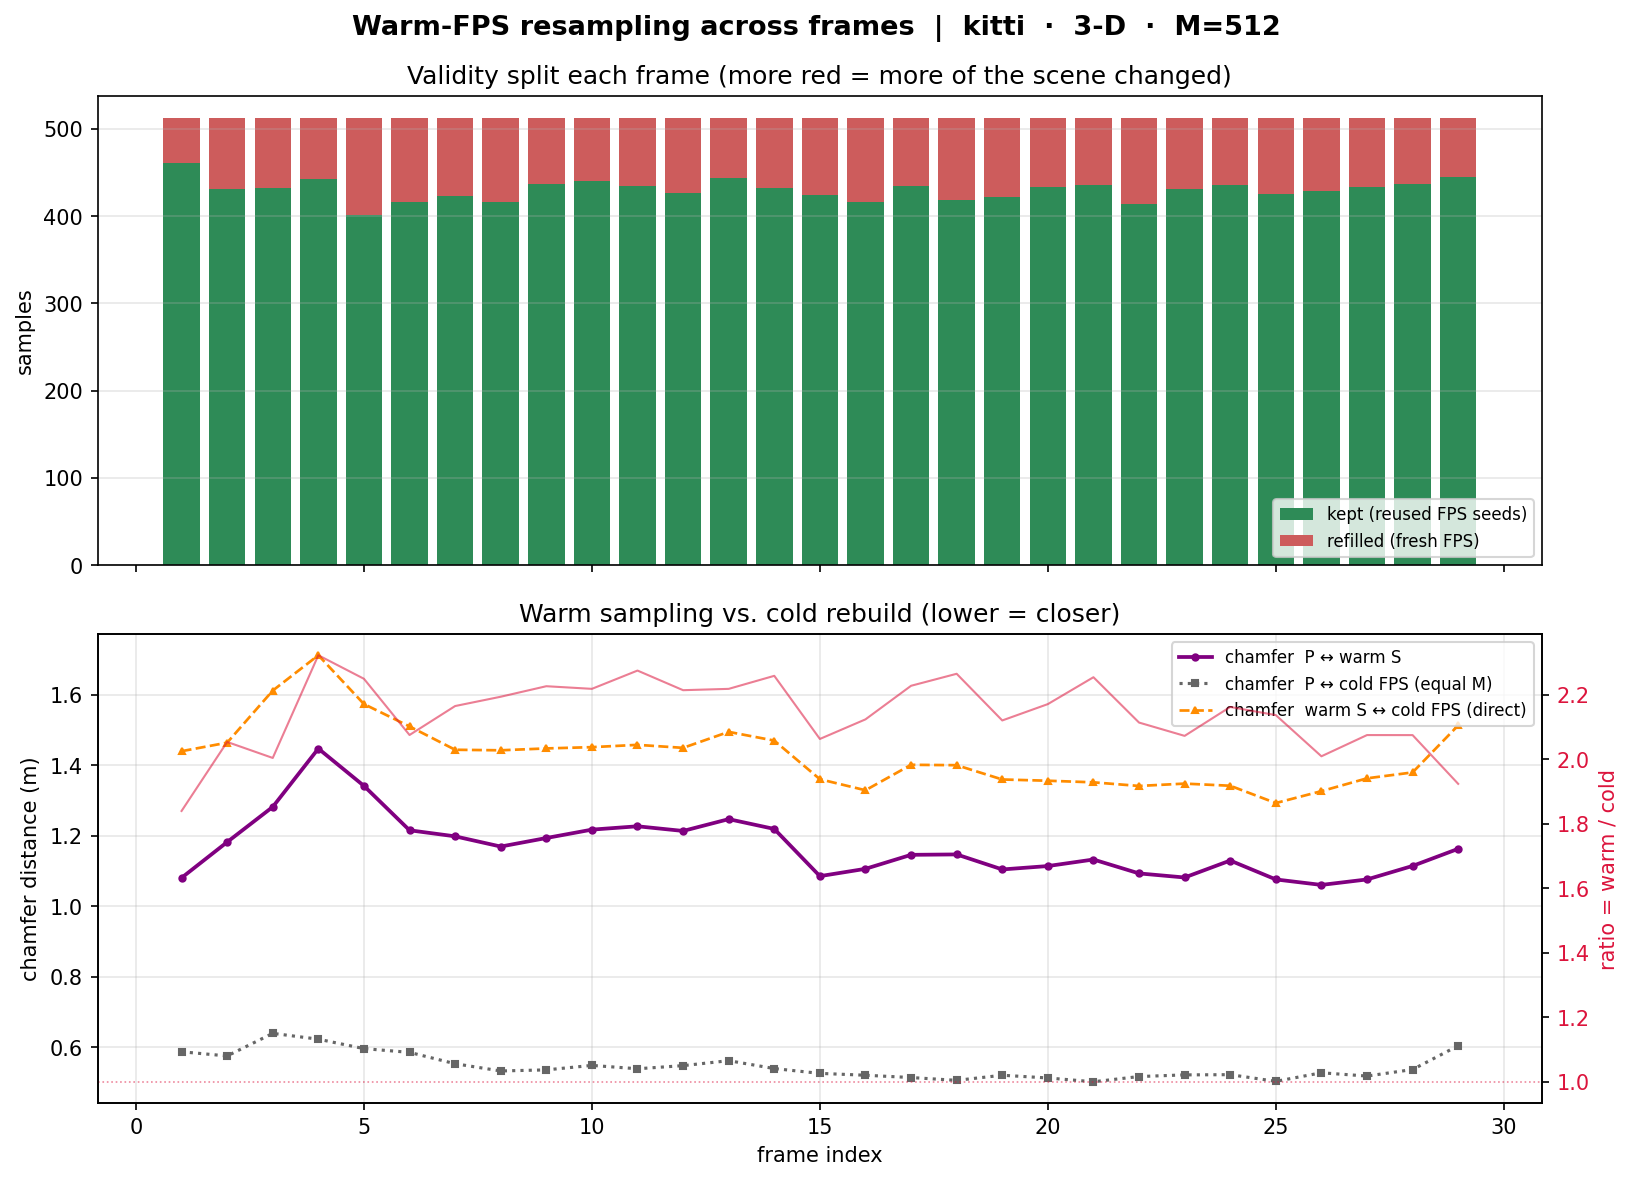
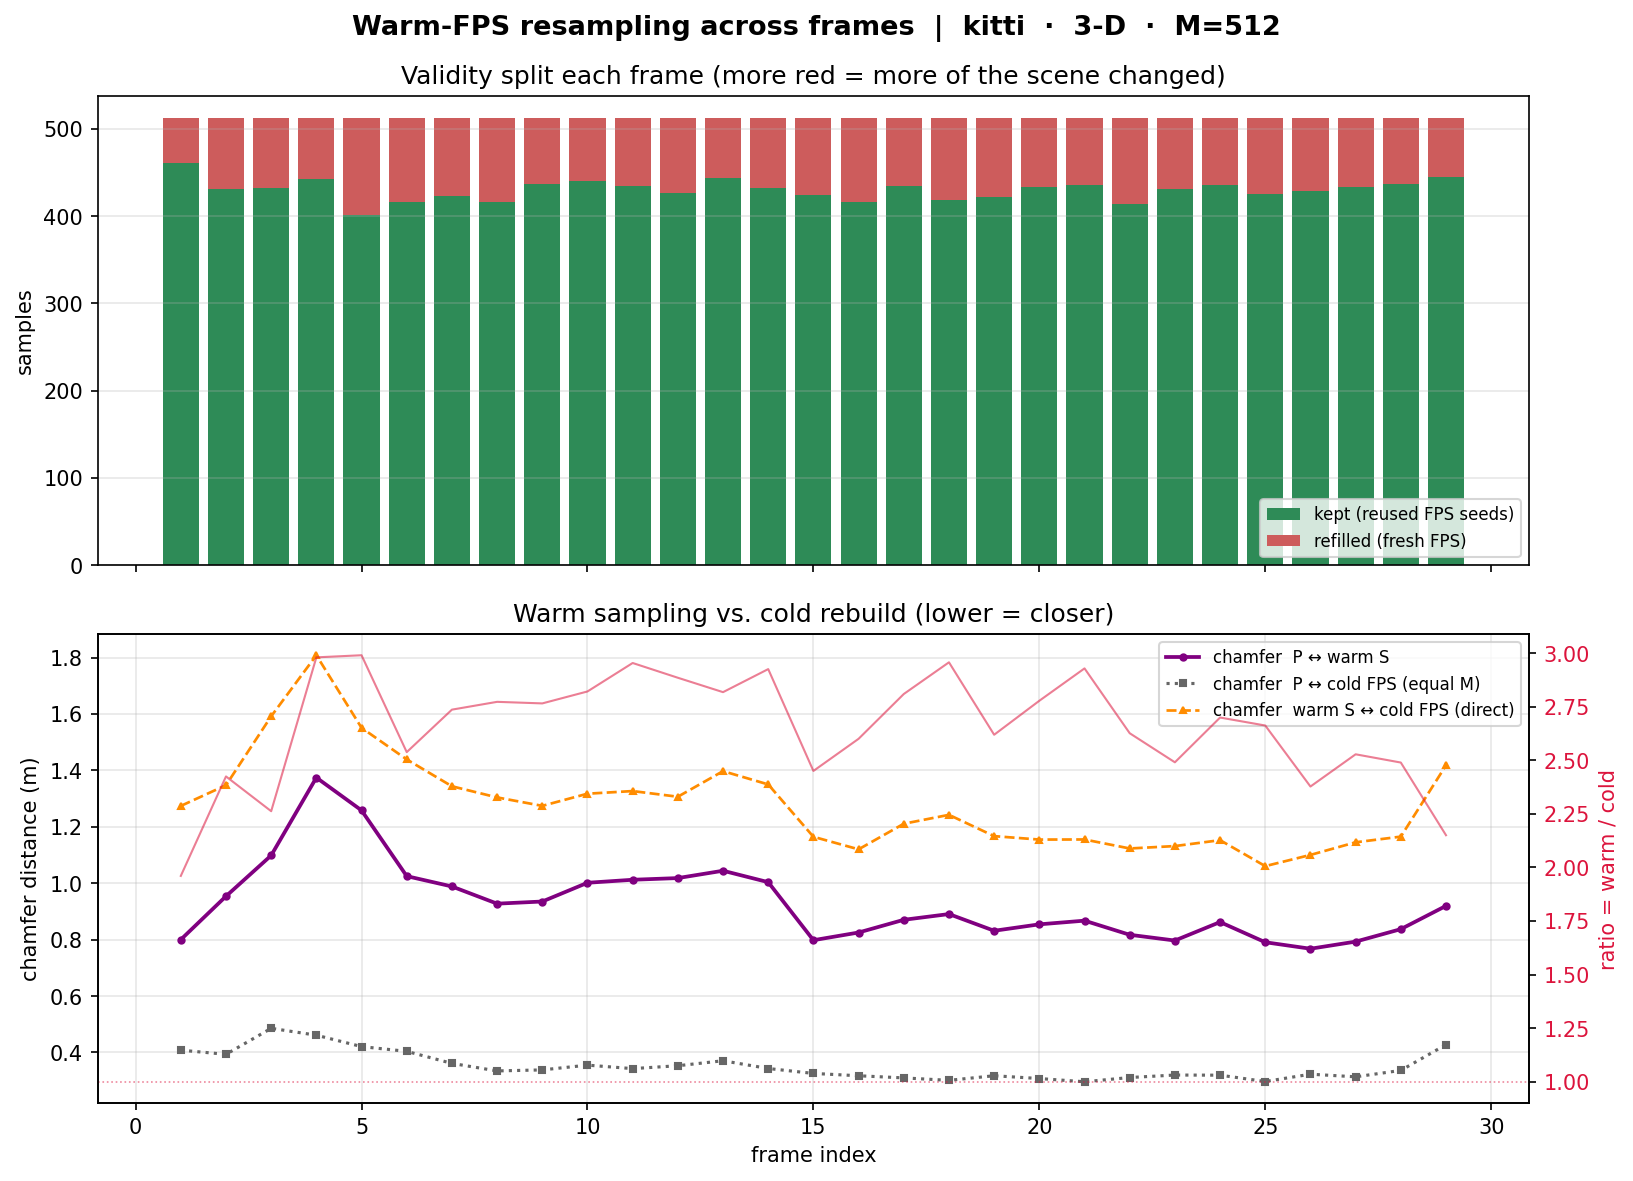
feat: enhance chamfer distance calculation with PyTorch3D support and fallback, update README and requirements

diff --git a/data_io.py b/data_io.py
@@ -2,6 +2,7 @@ from __future__ import annotations
 
 import glob
 import os
+import warnings
 
 import numpy as np
 import torch
@@ -72,7 +73,7 @@ def load_lidar_bin(
     return torch.from_numpy(np.ascontiguousarray(out, dtype=np.float32))
 
 
-def chamfer_distance(A: torch.Tensor, B: torch.Tensor, chunk: int = 8192):
+def chamfer_distance_legacy(A: torch.Tensor, B: torch.Tensor, chunk: int = 8192):
     """Symmetric mean Chamfer distance between point sets ``A`` and ``B``."""
     Na, Nb = A.shape[0], B.shape[0]
     if Na == 0 or Nb == 0:
@@ -88,6 +89,61 @@ def chamfer_distance(A: torch.Tensor, B: torch.Tensor, chunk: int = 8192):
     a2b = a2b_sum / Na
     b2a = float(b2a_min.mean())
     return a2b + b2a, a2b, b2a
+
+_CHAMFER_FALLBACK_WARNED = False
+
+
+def _chamfer_pytorch3d(A: torch.Tensor, B: torch.Tensor):
+    """Chamfer via PyTorch3D. Raises if PyTorch3D is missing or the call fails.
+
+    The two directed halves are obtained with separate ``single_directional``
+    calls and summed, matching PyTorch3D's bidirectional default. Uses **squared**
+    L2 distances (``norm=2``), so values are in metres².
+    """
+    from pytorch3d.loss import chamfer_distance as _p3d_chamfer
+
+    # PyTorch3D expects batched (B, N, D) clouds; add a singleton batch dim.
+    a, b = A.unsqueeze(0), B.unsqueeze(0)
+    a2b, _ = _p3d_chamfer(a, b, single_directional=True)  # mean over A -> nearest B
+    b2a, _ = _p3d_chamfer(b, a, single_directional=True)  # mean over B -> nearest A
+    a2b, b2a = float(a2b), float(b2a)
+    return a2b + b2a, a2b, b2a
+
+
+def chamfer_distance(A: torch.Tensor, B: torch.Tensor):
+    """Symmetric Chamfer distance between point sets ``A`` and ``B``.
+
+    Prefers PyTorch3D (:func:`pytorch3d.loss.chamfer_distance`); if that is
+    unavailable or fails *for any reason* (not installed, build broken, runtime
+    error), it falls back to :func:`chamfer_distance_legacy`, the pure-torch
+    implementation. Either way returns ``(total, a2b, b2a)``.
+
+    .. note::
+       The two backends differ in units: PyTorch3D reports **squared** L2
+       (metres²); the legacy fallback reports **mean L2** (metres). So which
+       backend ran affects the absolute magnitude of the numbers — a one-time
+       warning is emitted when the fallback is used so this isn't silent.
+
+    See the README → "Trying it out" for installing PyTorch3D.
+    """
+    if A.shape[0] == 0 or B.shape[0] == 0:
+        raise ValueError("Chamfer distance needs two non-empty point sets.")
+
+    try:
+        return _chamfer_pytorch3d(A, B)
+    except Exception as exc:  # noqa: BLE001 - intentional catch-all fallback
+        global _CHAMFER_FALLBACK_WARNED
+        if not _CHAMFER_FALLBACK_WARNED:
+            warnings.warn(
+                f"PyTorch3D chamfer unavailable ({type(exc).__name__}: {exc}); "
+                "falling back to chamfer_distance_legacy (mean-L2 metres, not "
+                "squared metres²). Install PyTorch3D to use the intended backend "
+                "— see the README.",
+                RuntimeWarning,
+                stacklevel=2,
+            )
+            _CHAMFER_FALLBACK_WARNED = True
+        return chamfer_distance_legacy(A, B)
 
 
 def list_frames(dataset: str) -> list[str]:

diff --git a/warm_fps/resample.py b/warm_fps/resample.py
@@ -35,7 +35,6 @@ def _cell_stats(P: torch.Tensor, S: torch.Tensor, chunk: int = 8192):
 def valid_mask(
     P: torch.Tensor,
     S: torch.Tensor,
-    *,
     min_occupancy: int = 1,
     stale_dist: float | None = None,
     separation_min: float | None = None,
@@ -145,7 +144,6 @@ def warm_resample(
     P: torch.Tensor,
     S_prev: torch.Tensor,
     num_samples: int,
-    *,
     min_occupancy: int = 1,
     stale_dist: float | None = None,
     separation_min: float | None = None,

diff --git a/README.md b/README.md
@@ -173,7 +173,7 @@ tensor `P`:
 | `load_lidar_bin(path, dims=3, max_range=None, min_z=None)` | Load one frame into an `(N, dims)` tensor. |
 | `list_frames(dataset)` | Sorted list of frame paths for `"nuscenes"` or `"kitti"`. |
 | `load_frame(dataset, index, **kw)` | Convenience: load the `index`-th frame by dataset name. |
-| `chamfer_distance(A, B)` | Symmetric Chamfer distance, returned split into its two directed halves (see the temporal section). |
+| `chamfer_distance(A, B)` | Symmetric Chamfer distance (backed by **PyTorch3D**; squared-L2, metres²), returned split into its two directed halves (see the temporal section). |
 
 Two on-disk formats are **auto-detected by file extension**:
 
@@ -530,6 +530,40 @@ All phases share a single virtual environment at the repo root. Set it up once:
 python -m venv venv                      # if not already present
 venv/bin/pip install -r requirements.txt
 ```
+
+**PyTorch3D (preferred backend for `chamfer_distance`).** The Chamfer distance
+used by the temporal demos prefers [PyTorch3D](https://github.com/facebookresearch/pytorch3d),
+but **falls back automatically** to the pure-torch `chamfer_distance_legacy` if
+PyTorch3D is missing or fails to load (with a one-time warning) — so the demos run
+either way. PyTorch3D is **not on PyPI** and so is not in `requirements.txt`;
+install it after the rest, matching your installed `torch`/CUDA, if you want the
+intended backend:
+
+```bash
+# Option A — prebuilt wheel (fastest; only for supported torch+CUDA combos).
+# Browse https://anaconda.org/pytorch3d/pytorch3d or the project's install guide
+# for a wheel matching your torch version, then e.g.:
+venv/bin/pip install fvcore iopath
+venv/bin/pip install --no-index --no-cache-dir pytorch3d \
+    -f https://dl.fbaipublicfiles.com/pytorch3d/packaging/wheels/<py-torch-cuda>/download.html
+
+# Option B — build from source (works on CPU-only too; needs a C++ compiler).
+# Set FORCE_CUDA=0 for a CPU build; the chamfer op falls back to CPU.
+venv/bin/pip install fvcore iopath
+FORCE_CUDA=0 venv/bin/pip install "git+https://github.com/facebookresearch/pytorch3d.git"
+```
+
+> If your `torch` is newer than any PyTorch3D release supports, the source build
+> (Option B) is the reliable route. See the
+> [official install guide](https://github.com/facebookresearch/pytorch3d/blob/main/INSTALL.md)
+> for the wheel/`torch` compatibility matrix.
+>
+> **Metric note:** PyTorch3D's Chamfer uses **squared** L2 distances, so the
+> reported `chamfer` / `fps_cham` values are in metres² — squared relative to the
+> earlier mean-L2 numbers quoted elsewhere in this README. *Lower = closer* still
+> holds; only the magnitudes (and the `ratio`) differ. The legacy fallback reports
+> **mean-L2 metres**, so which backend ran changes the absolute magnitudes — the
+> one-time warning tells you when the fallback is in use.
 
 Then activate it and run any phase:
 